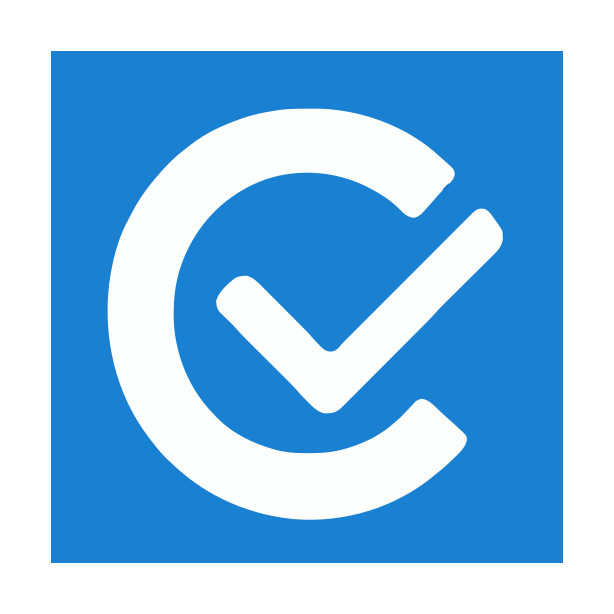
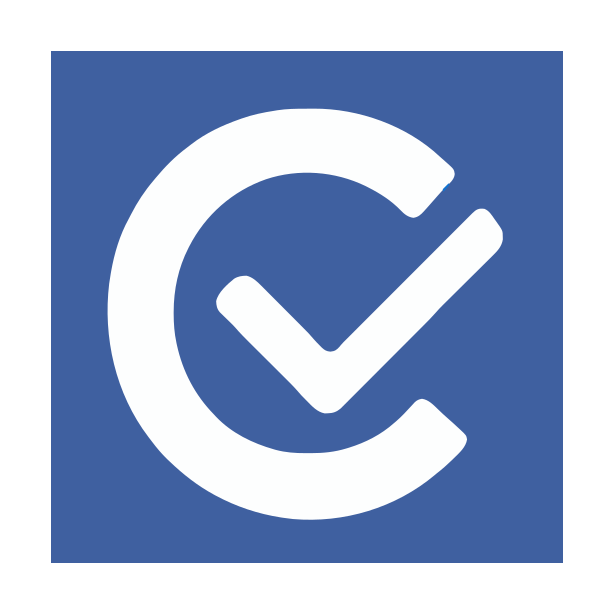
sync@20250708.1403

diff --git a/src/theme/index.ts b/src/theme/index.ts
@@ -4,16 +4,16 @@ export const theme = createTheme({
   primaryColor: 'brand',
   colors: {
     brand: [
-      '#e8f2fc',
-      '#c4ddf6',
-      '#9bc8f0',
-      '#6fb2ea',
-      '#4a9fe5',
-      '#1A80D2',
-      '#1673c1',
-      '#1263a9',
-      '#0e5492',
-      '#0a457b',
+      '#ecf4ff',
+      '#dce4f4',
+      '#b8c6e3',
+      '#91a7d2',
+      '#708cc4',
+      '#5b7bbb',
+      '#5073b8',
+      '#3f60a0',
+      '#365793',
+      '#294b83',
     ],
   },
   fontFamily:

diff --git a/vite.config.ts b/vite.config.ts
@@ -23,7 +23,7 @@ export default defineConfig({
         name: 'Credo App',
         short_name: 'Credo',
         description: 'Credo Progressive Web Application',
-        theme_color: '#1969c8',
+        theme_color: '#3F60A0',
         background_color: '#ffffff',
         display: 'standalone',
         orientation: 'portrait',

diff --git a/src/pages/auth/RegisterPage.tsx b/src/pages/auth/RegisterPage.tsx
@@ -123,7 +123,7 @@ export function RegisterPage() {
     <GuestLayout hasRegisterLink={false} title={t('auth.registerTitle')}>
       <Stack gap="xl">
         <Transition
-          mounted={true}
+          mounted
           transition="slide-up"
           duration={400}
           timingFunction="ease"

diff --git a/src/pages/app/AddUserPage.tsx b/src/pages/app/AddUserPage.tsx
@@ -194,7 +194,7 @@ export function AddUserPage() {
         </Title>
 
         <Transition
-          mounted={true}
+          mounted
           transition="slide-up"
           duration={400}
           timingFunction="ease"
